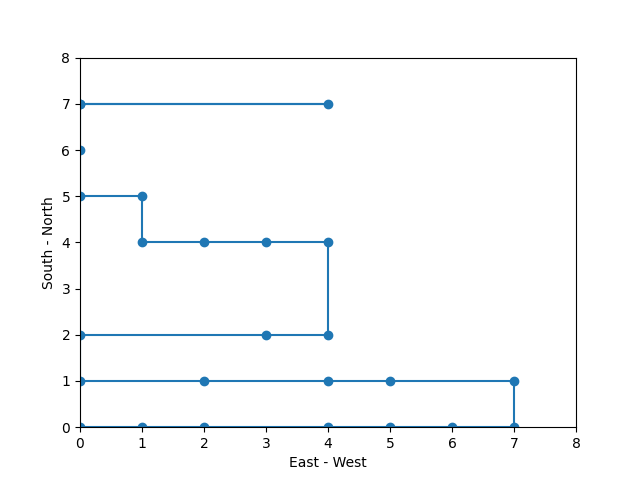
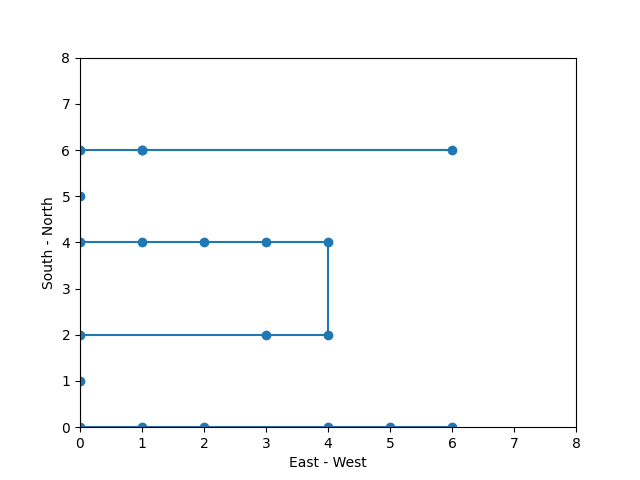
code works on macos. Need to test and fix for windows

diff --git a/code/Simulator.py b/code/Simulator.py
@@ -427,10 +427,10 @@ def practice():
 def experiment_4():
     #same 8x8 map
     paths = []
-    paths.append(setUpPaths("Paths/experiment4/path0",1,3,xmax = 8, ymax = 8)[0])
-    # paths.append(setUpPaths("Paths/experiment4/path1",1,random.randint(6,25),xmax = 8, ymax = 8)[0])
-    # paths.append(setUpPaths("Paths/experiment4/path2",1,random.randint(6,25),xmax = 8, ymax = 8)[0])
-    # paths.append(setUpPaths("Paths/experiment4/path3",1,random.randint(6,25),xmax = 8, ymax = 8)[0])
+    paths.append(setUpPaths("Paths/experiment4/path1",1,random.randint(6,25),xmax = 8, ymax = 8)[0])
+    paths.append(setUpPaths("Paths/experiment4/path1",1,random.randint(6,25),xmax = 8, ymax = 8)[0])
+    paths.append(setUpPaths("Paths/experiment4/path1",1,random.randint(6,25),xmax = 8, ymax = 8)[0])
+    paths.append(setUpPaths("Paths/experiment4/path2",1,random.randint(6,25),xmax = 8, ymax = 8)[0])
     base, bestSol = solveAdaptive(paths)
 
     # solve each path
